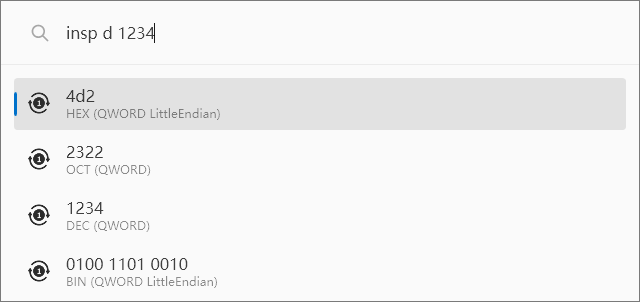
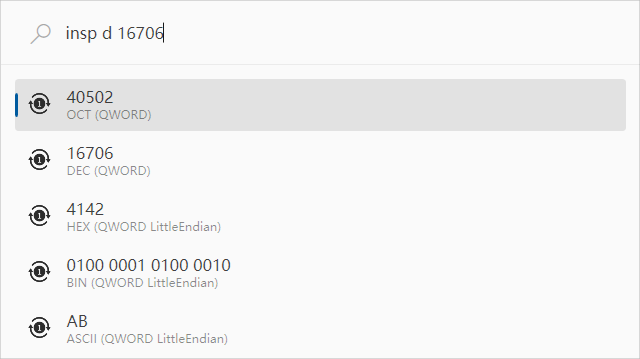
Doc: update usage

diff --git a/src/HexInspector.cs b/src/HexInspector.cs
@@ -38,7 +38,7 @@ namespace PowerHexInspector
                     new Result
                     {
                         Title = $"Usage 1: {query.ActionKeyword} [value]",
-                        SubTitle = "[value]: A C-style number, e.g. 123, 0x7b, 0b01111011, 0173",
+                        SubTitle = "[value]: A C-style value, e.g. 65, 0x41, 0b01000001, 0101, \"A\"",
                         IcoPath = IconPath,
                         Action = (e) => true
                     }
@@ -48,7 +48,7 @@ namespace PowerHexInspector
                     new Result
                     {
                         Title = $"Usage 2: {query.ActionKeyword} [format] [value]",
-                        SubTitle = "[format]: h/H for hex, b/B for binary, d/D for decimal",
+                        SubTitle = "[format]: h/H for hex, b/B for binary, d/D for decimal, o/O for octal, a/A for ascii",
                         IcoPath = IconPath,
                         Action = (e) => true
                     }

diff --git a/README.md b/README.md
@@ -27,6 +27,7 @@ The base can be one of the following values:
 - `o` or `O`: Octal
 - `d` or `D`: Decimal
 - `h` or `H`: Hexadecimal
+- `a` or `A`: ASCII
 
 Or use
 
@@ -37,9 +38,10 @@ In this case, the input should be a string that follows the rules below:
 - A string starting with `0x` will be considered hexadecimal
 - A string starting with `0b` will be considered binary
 - A string starting with `0` will be considered octal
+- A string surrounded by double quotes will be considered ASCII
 - Otherwise, it will be considered decimal
 
-### Example Usage
+### Example
 
 ![](./Images/examples/ep1.png)
 
@@ -49,6 +51,3 @@ Clicking or pressing `Enter` will copy the conversion result to the clipboard.
 
 ## Installation
 Download the latest release, extract it, and place the `PowerHexInspector` folder into the `%LOCALAPPDATA%\Microsoft\PowerToys\PowerToys Run\Plugins` directory. Then, restart PowerToys.
-
-## Disclaimer
-This plugin is still in development and may have various unknown bugs and crashes.

diff --git a/README_ZH-CN.md b/README_ZH-CN.md
@@ -27,6 +27,7 @@
 - `o`或`O`：八进制
 - `d`或`D`：十进制
 - `h`或`H`：十六进制
+- `a`或`A`：ASCII码
 
 或者使用
 
@@ -37,6 +38,7 @@
 - 以`0x`开头的字符串会被认为是十六进制
 - 以`0b`开头的字符串会被认为是二进制
 - 以`0`开头的字符串会被认为是八进制
+- 用双引号括起来的字符串会被认为是ASCII码
 - 其他情况会被认为是十进制
 
 
@@ -50,6 +52,3 @@
 
 ## 安装
 下载最新的release，解压后将`PowerHexInspector`文件夹放入`%LOCALAPPDATA%\Microsoft\PowerToys\PowerToys Run\Plugins`文件夹中，然后重启powertoys即可。
-
-## 声明
-该插件还处于开发阶段，可能会有各种未知的bug和崩溃。
